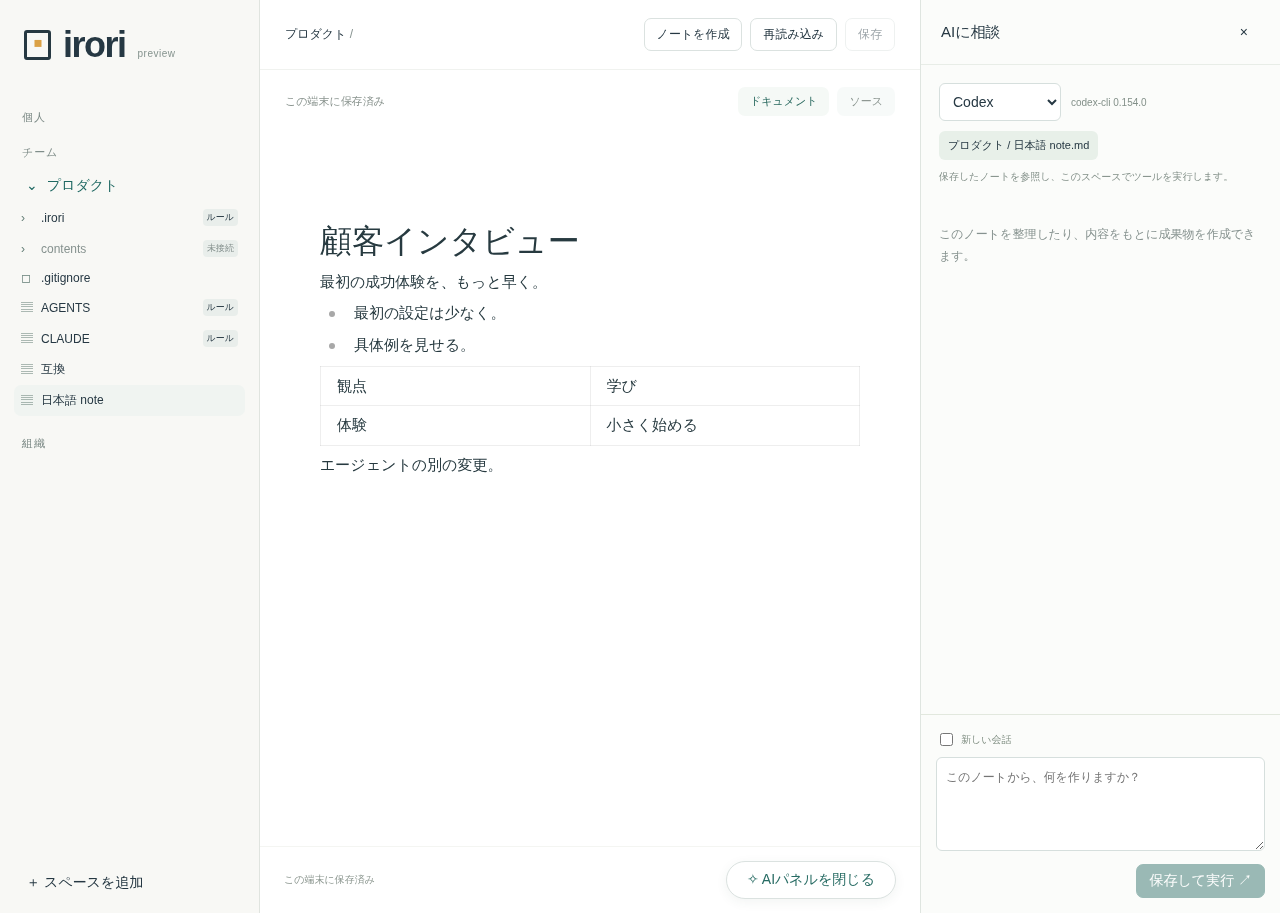
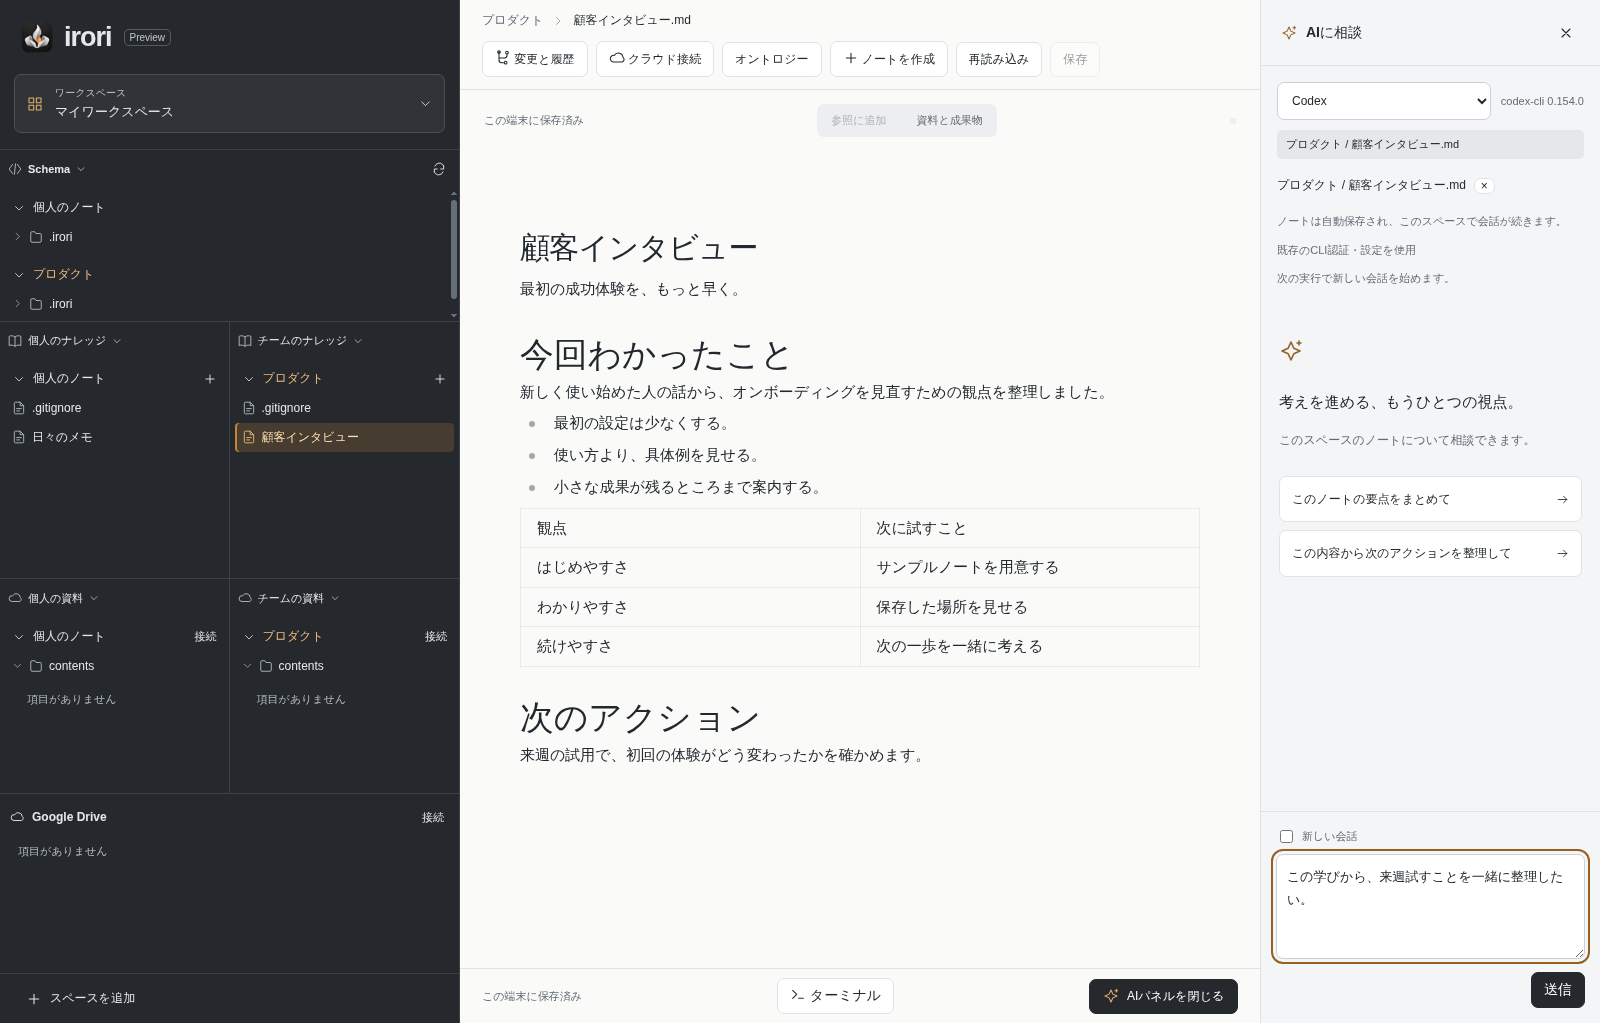
Preserve document spacing and refresh preview screenshots

diff --git a/website/index.html b/website/index.html
@@ -62,8 +62,8 @@
             <span class="feature-number">01 / WRITE</span>
             <h3>いつものノートが、出発点。</h3>
             <p>
-              見たまま書けるエディタと、Markdown のソース編集。手元の KB
-              フォルダを開いて、自分のファイルで作業できます。
+              見たまま書けるエディタで、ノートを自動保存。画像もそのまま貼り付けて、
+              手元の KB フォルダに残せます。
             </p>
           </article>
           <article>
@@ -193,8 +193,8 @@
               ノート編集、Git 操作、CSV
               の表表示・ソース編集、設定済みオントロジーのグラフ表示、内蔵ターミナルを試せます。
               Google 接続用の設定と rclone を組み込み、アカウント接続を試せる版になりました。
-              クラウドへの書き込み、成果物と参照ソースの履歴管理などは未完成です。Windows 実機での
-              CLI 連携も確認待ちです。
+              Git の一括操作や AI への送信予約、資料の版・成果物の登録にも対応しています。
+              Drive への実送信、端末をまたぐ履歴の共有、Windows 実機での CLI 連携は確認・開発中です。
             </p>
           </details>
           <details>

diff --git a/src/editor/preservation.ts b/src/editor/preservation.ts
@@ -38,6 +38,9 @@ export const preserveBlocks = $remark('irori-preservation', () => () => (tree, f
     if (frontmatter && start < frontmatter.length)
       return start === 0 ? [{ type: 'iroriLiteral', value: frontmatter.trimEnd() }] : [];
     const raw = source.slice(start, end);
+    // Crepe serializes empty paragraphs as HTML breaks; display document spacing.
+    if (/^<br\s*\/?>(?:\s*)$/i.test(raw.trim()))
+      return [{ type: 'paragraph', children: [] }];
     if (node.type !== 'code' && /\[\[|^>\s*\[!|^\s*<|^\s*:::|\$\$|\{[%{]|\[\^[^\]]+\]/m.test(raw))
       return [{ type: 'iroriLiteral', value: raw }];
     return [node];

diff --git a/scripts/ui-smoke.ts b/scripts/ui-smoke.ts
@@ -184,6 +184,7 @@ try {
         ),
     )
     .toBe(true);
+  await expect(page.locator('.literal-block').filter({ hasText: '<br' })).toHaveCount(0);
   await page.getByRole('button', { name: 'AIに相談', exact: true }).click();
   const realResults: unknown[] = [];
   if (process.env.IRORI_UI_REAL_AGENTS === '1') {
